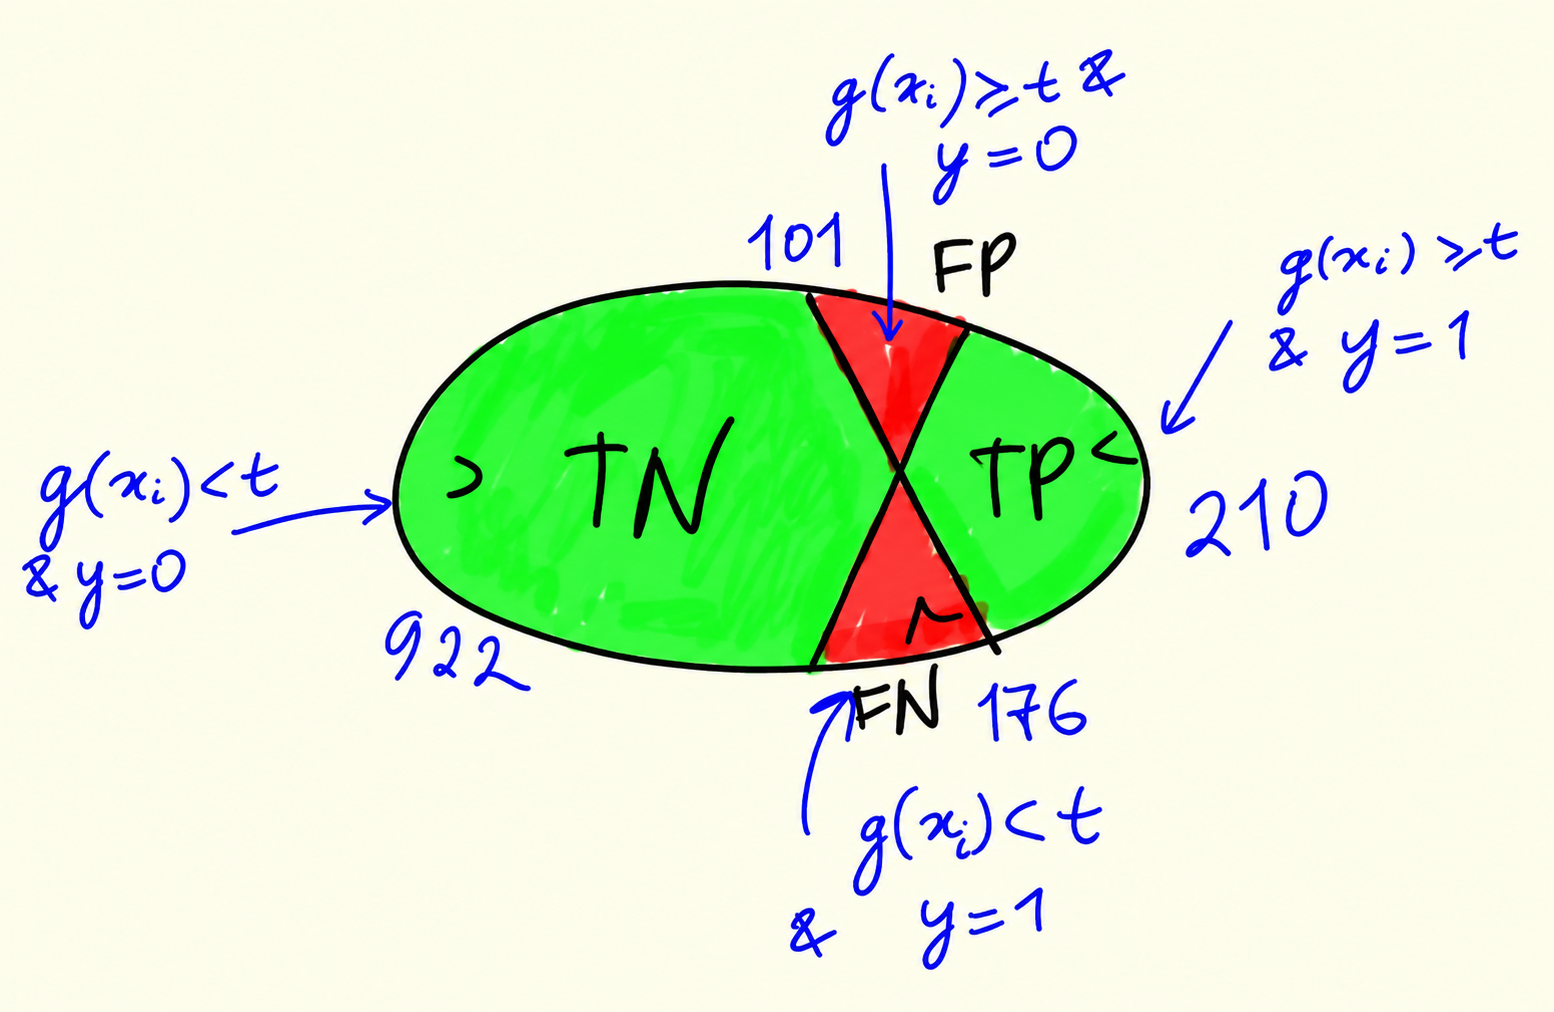
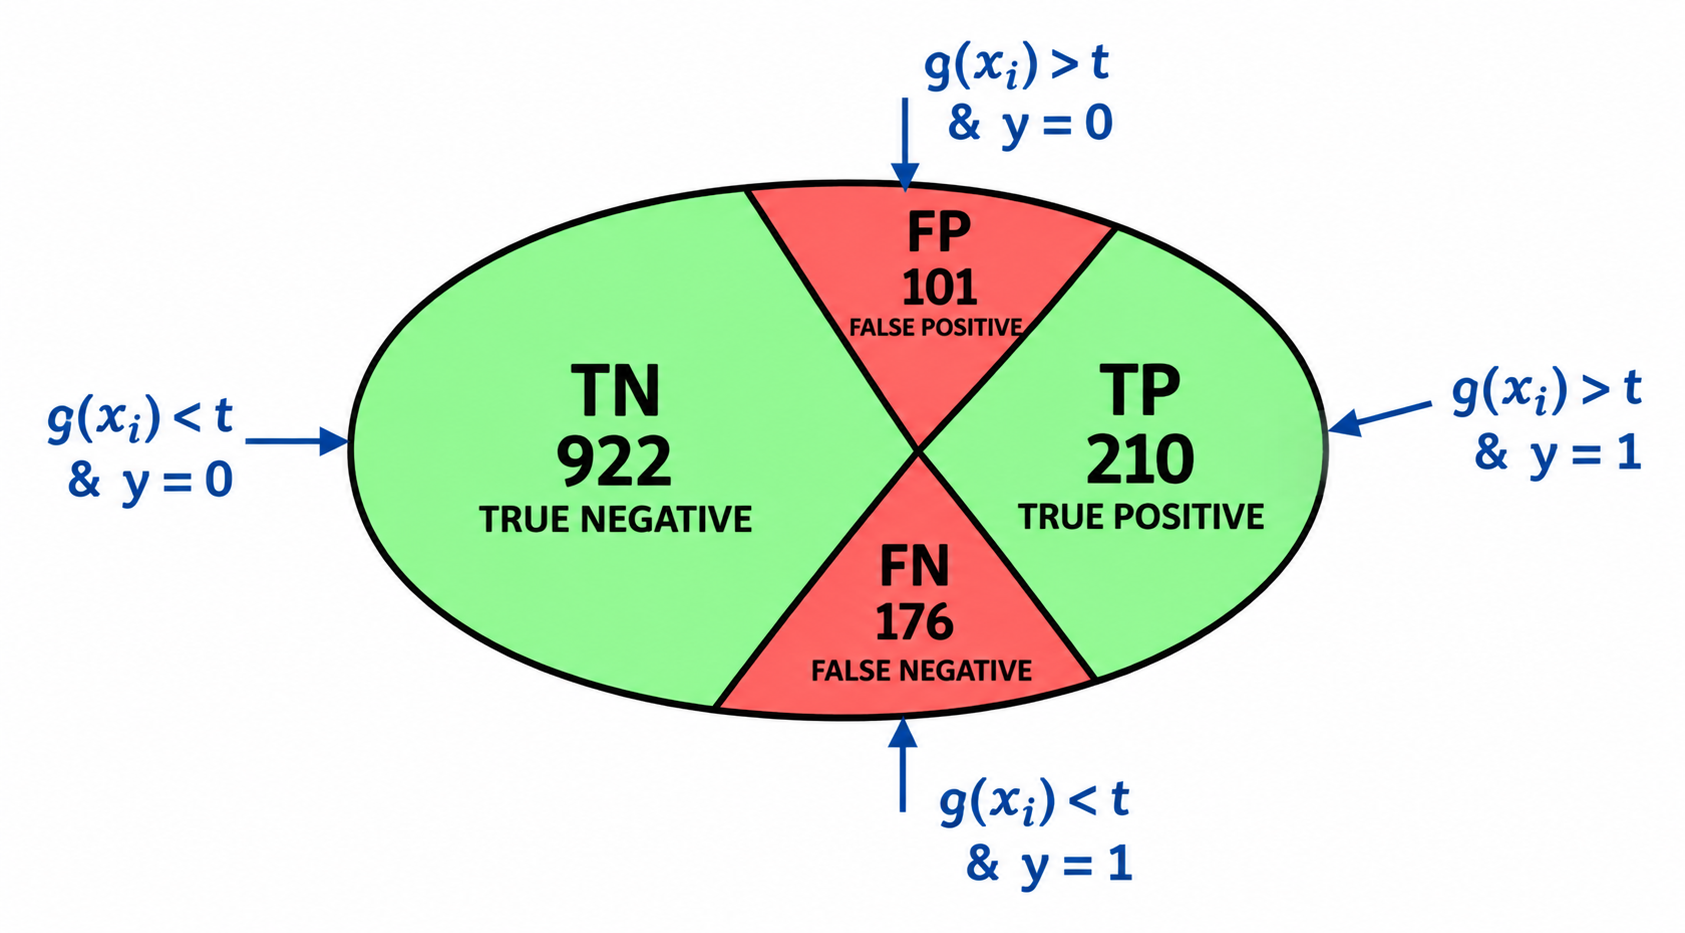
Regenerate evaluation count and recall illustrations

diff --git a/cohorts/2026/04-evaluation/images/2026-09-09-evaluation-batch-2-provenance.md b/cohorts/2026/04-evaluation/images/2026-09-09-evaluation-batch-2-provenance.md
@@ -1,0 +1,41 @@
+# Evaluation illustration redraw batch 2 — 2026-09-09
+
+This ledger covers these three active references only:
+
+- `03-confusion-table-04-confusion-counts-crisp.png`
+- `04-precision-recall-03-precision-pie-crisp.png`
+- `04-precision-recall-05-recall-example-crisp.png`
+
+Each output was generated with imagegen from the unchanged original JPG and
+the tracked bounded crop. The prompts required exact lesson values and labels,
+clean typeset/vector-like redraws, and removal of the webcam, recording
+controls, cursor, color-wheel overlay, handwriting, and other screenshot
+artifacts. These are redraws, not enlargements or sharpened screenshots.
+
+## Reproducible crops
+
+Run `2026-09-09-evaluation-batch-2-crops.sh` from this directory. It uses
+ImageMagick `convert`, JPEG quality 92, and `2x2,1x1,1x1` sampling.
+
+| Source JPG | Crop coordinates `(x,y,w,h)` | Tracked crop |
+|---|---:|---|
+| `03-confusion-table-04-confusion-counts.jpg` | `(27,70,523,290)` | `03-confusion-table-04-confusion-counts-imagegen-crop.jpg` |
+| `04-precision-recall-03-precision-pie.jpg` | `(27,65,523,295)` | `04-precision-recall-03-precision-pie-imagegen-crop.jpg` |
+| `04-precision-recall-05-recall-example.jpg` | `(27,0,478,360)` | `04-precision-recall-05-recall-example-imagegen-crop.jpg` |
+
+## Hashes and validation
+
+| Asset | Original JPG SHA-256 | Crop SHA-256 | Output PNG SHA-256 | Native / 608px render |
+|---|---|---|---|---|
[3 lines of base64/hex data omitted]
+
+All three PNGs contain C2PA metadata with `gpt-image` and `OpenAI Media
+Service` markers. Native and 608px inspections confirmed:
+
+- `TN=922`, `FP=101`, `FN=176`, and `TP=210` in the confusion-count diagram;
+- the precision diagram's green `TP` and red `FP` predicted-positive split;
+- exactly three flagged and one missed actual churner, with `R = 3/4 = 75%`.
+
+No webcam, browser, cursor, overlay, or simple-upscale artifacts remain.
